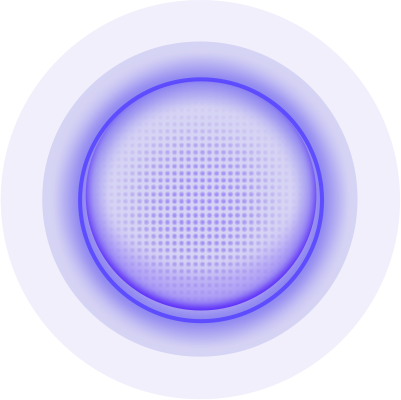
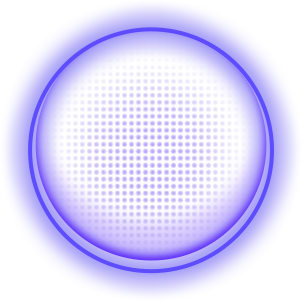
update

diff --git a/src/assets/sass/_style.scss b/src/assets/sass/_style.scss
@@ -25,7 +25,8 @@
     width: 401px;
     height: 400px;
     background: url(../../assets/images/voice/btn_default.png) no-repeat;
-    background-size: 100%;
+    background-size: 300px;
+    background-position: 50px;
     &.success{
       color: #4de3e5;
       background: url(../../../static/images/voice/btn_success.png) no-repeat;
@@ -36,6 +37,7 @@
       }
       .voice{
         background-image: url(../../../static/images/voice/voice_succ.png);
+        background-size: 96px 78px;
         background-position: center;
       }
       .light{
@@ -81,17 +83,46 @@
     }
     .voice{
       position: absolute;
-      width: 78px;
-      height: 114px;
+      width: 250px;
+      height: 250px;
+      border-radius: 50%;
       top: 0;
       bottom: 0;
       left: 0;
       right: 0;
       margin: auto;
       background: url(../../assets/images/voice/voice.png) no-repeat;
-      background-size: 100%;
+      background-size: 78px 114px;
+      background-position: center;
+      
+    }
+    .bak-light{
+      display: none;
+      position: absolute;
+      width: 240px;
+      height: 240px;
+      border-radius: 50%;
+      top: 0;
+      bottom: 0;
+      left: 0;
+      right: 0;
+      margin: auto;
+      animation: light 3s linear infinite;
+      
+      &.active{
+        display: block;
+        >div{
+          width: 100%;
+          height: 100%;
+          border-radius: 50%;
+          transform: scale(1.3);
+          animation: light2 3s linear infinite;
+          opacity: .2;
+        }
+      }
     }
     .light{
+      display: none;
       position: absolute;
       top: 0;
       bottom: 0;
@@ -103,6 +134,7 @@
       background: url(../../assets/images/voice/btn_light.png) no-repeat;
       background-size: 100%;
       &.active{
+        display: block;
         animation: rotate 3s linear infinite;
       }
       
@@ -119,6 +151,11 @@
     background-size: 100%;
     height: 294px;
     margin-top: 40px;
+    .wave1{
+      background: url(../../assets/images/voice/wave1.png) no-repeat;
+      background-size: 100%;
+      height: 294px;
+    }
   }
   .progress{
     padding: 32px 24px;
@@ -144,6 +181,28 @@
     padding: 0 200px;
     text-align: center;
     padding-bottom: 24px;
+  }
+}
+@keyframes light{
+  0% {
+    box-shadow: 0 0 40px 20px rgba(255,255,255,.2);
+  }
+  50% {
+    box-shadow: 0 0 120px 20px rgba(255,255,255,.2);
+  }
+  100% {
+    box-shadow: 0 0 40px 20px rgba(255,255,255,.2);
+  }
+}
+@keyframes light2{
+  0% {
+    box-shadow: 0 0 20px 10px rgba(255,255,255,.1);
+  }
+  50% {
+    box-shadow: 0 0 20px 10px rgba(255,255,255,.1);
+  }
+  100% {
+    box-shadow: 0 0 20px 10px rgba(255,255,255,.1);
   }
 }
 @keyframes rotate{

diff --git a/src/views/voice/index.vue b/src/views/voice/index.vue
@@ -12,7 +12,11 @@
         </div>
         <div class="tips">{{topTip}}</div>
         <div class="num">{{number}}</div>
-        <div class="wave"></div>
+        <div class="wave">
+          <div class="wave1"></div>
+          <div class="wave2"></div>
+          <div class="wave3"></div>
+        </div>
         <div class="btn" :class="btnclass">
           <div class="bottom-tip">
             <span>{{btnText}}</span>
@@ -23,6 +27,9 @@
             @touchstart="handleTouchStart($event)"
             @touchend="handleTouchEnd($event)"
           ></div>
+          <div class="bak-light" :class="{active: recording}">
+            <div></div>
+          </div>
         </div>
       </div>
       <div v-if="state===1" class="bg bg-2">
@@ -100,7 +107,7 @@ export default {
     }
   },
   created() {
-    // this.state = 1;
+    this.state = 0;
     this.preload()
     this.code = this.$route.query.code
     getUserInfo({
@@ -446,5 +453,5 @@ export default {
 </script>
 
 <style lang="scss">
-@import "@/assets/sass/main.scss";
+@import "~@/assets/sass/main.scss";
 </style>
